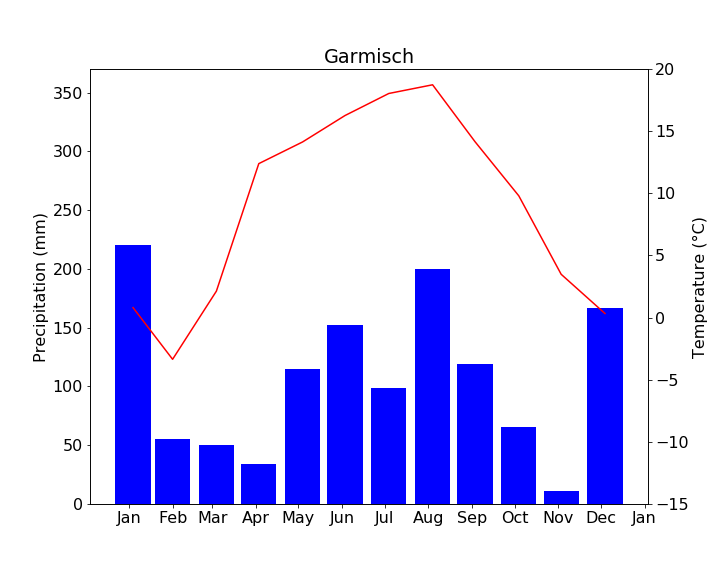
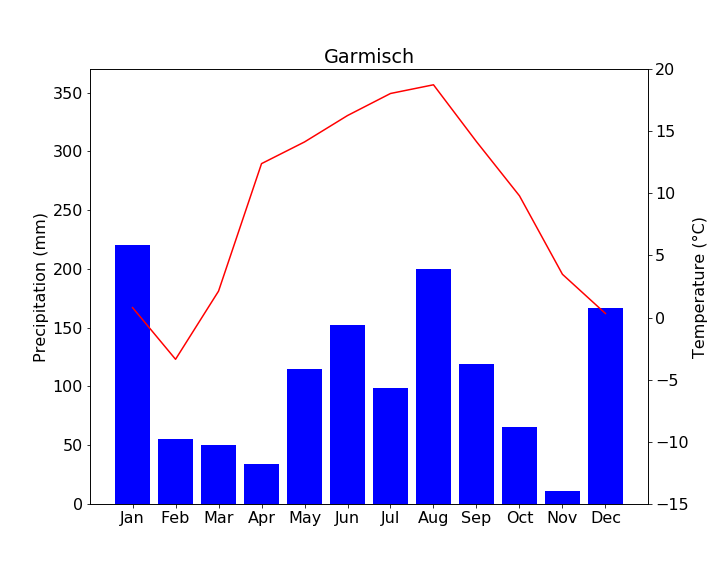
revised solution

diff --git a/create_climate_diagrams.py b/create_climate_diagrams.py
@@ -1,22 +1,13 @@
 import pandas as pd
 import matplotlib.pyplot as plt
 import matplotlib.dates as mdates
-from pathlib import Path
-
-basedir = Path("C:/Users/Kochti/Desktop/Studium/Python/exercise-4-TLKoch/")
-data_dir = basedir / "data"
-
-
-outputdir = basedir / "output"    
-# outputdir.mkdir()
-    
+  
     
 # Import both data tables into python using pandas. Set the index column to "MESS_DATUM" and parse the column values as dates. [1P]
-garmisch_dir  = data_dir / "produkt_klima_tag_20171010_20190412_01550.txt"
-zugspitze_dir = data_dir / "produkt_klima_tag_20171010_20190412_05792.txt"
 
-garmisch = pd.read_csv(garmisch_dir, parse_dates=["MESS_DATUM"], index_col="MESS_DATUM", sep = ";")
-zugspitze = pd.read_csv(zugspitze_dir, parse_dates=["MESS_DATUM"], index_col="MESS_DATUM", sep = ";")
+
+garmisch = pd.read_csv("data/produkt_klima_tag_20171010_20190412_01550.txt", parse_dates=["MESS_DATUM"], index_col="MESS_DATUM", sep = ";")
+zugspitze = pd.read_csv("data/produkt_klima_tag_20171010_20190412_05792.txt", parse_dates=["MESS_DATUM"], index_col="MESS_DATUM", sep = ";")
 
 # Clip the tables to the year 2018: [1P]
 garmisch  = garmisch.loc["2018"]
@@ -68,21 +59,19 @@ def create_climate_diagram(
     The figure
     
     """
-
-
-
     fig = plt.figure(figsize=(10,8))
     plt.rcParams['font.size'] = 16
 
     ax2 = fig.add_subplot(111)
     ax1 = ax2.twinx()
     
-    days = mdates.DayLocator(bymonthday=28)
-    monthFmt = mdates.DateFormatter("%b")
-    ax2.xaxis.set_major_locator(days)
-    ax2.xaxis.set_major_formatter(monthFmt)
-    ax1.xaxis.set_major_locator(days)
-    ax1.xaxis.set_major_formatter(monthFmt)
+    df = df.loc[:, [temp_col, prec_col]].resample("M").agg({temp_col: "mean", prec_col: "sum"})
+    
+    # Draw temperature values as a red line and precipitation values as blue bars: [1P]
+    # Hint: Check out the matplotlib documentation how to plot barcharts. Try to directly set the correct
+   
+    ax2.bar(df.index.strftime("%b"), df.loc[:, prec_col].values, width=0.8, color="b", label = "Precipitation")
+    ax1.plot(df.loc[:,temp_col].values, c="r", label = "Temperature")
     
     
     # Set appropiate limits to each y-axis using the function arguments: [1P]
@@ -90,22 +79,6 @@ def create_climate_diagram(
     ax2.set_ylim(prec_min, prec_max)
     ax1.set_ylim(temp_min, temp_max)
     
-    
-
-    # Draw temperature values as a red line and precipitation values as blue bars: [1P]
-    # Hint: Check out the matplotlib documentation how to plot barcharts. Try to directly set the correct
-
-
-    # agg sum Regen, mean Temp auf monatlich
-    
-    df = df.loc[:, [temp_col, prec_col]].resample("M").agg({temp_col: "mean", prec_col: "sum"})
-    
-    ax2.bar(x = df.index, height = list(df.loc[:, prec_col]), color = "b", width = 25, label = "Precipitation")
-    ax1.plot(df.loc[:,temp_col], c="r", label = "Temperature")
-
-    
-
-
     
     # Set appropiate labels to each y-axis: [1P]
     ax2.set_ylabel("Precipitation (mm)")
@@ -116,7 +89,7 @@ def create_climate_diagram(
 
     # Save the figure as png image in the "output" folder with the given filename. [1P]
  
-    plt.savefig(filename)
+    plt.savefig("output/" + filename)
     
     
     
